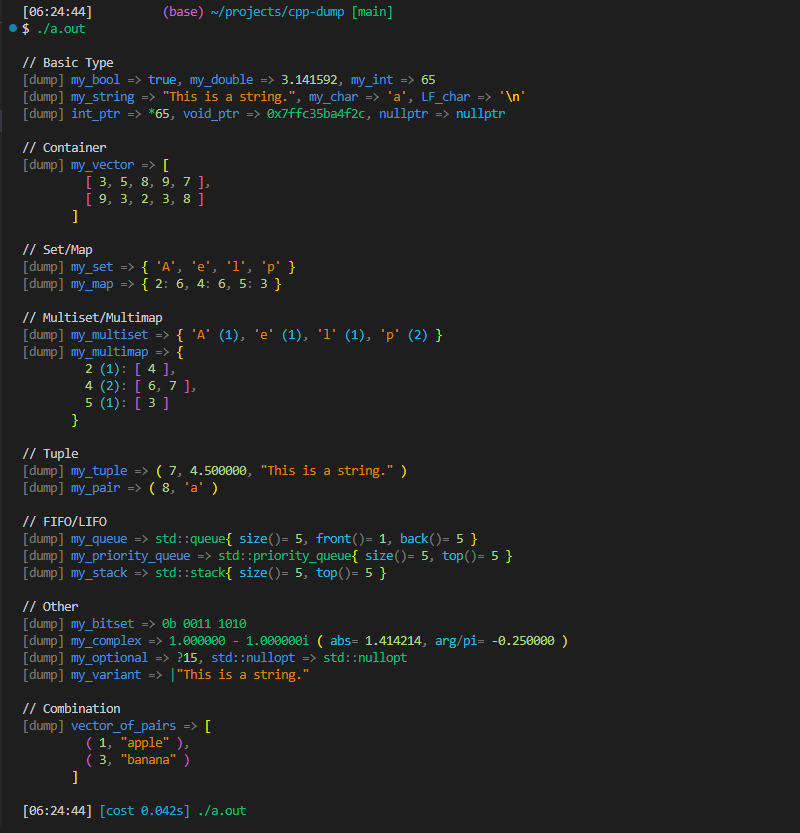
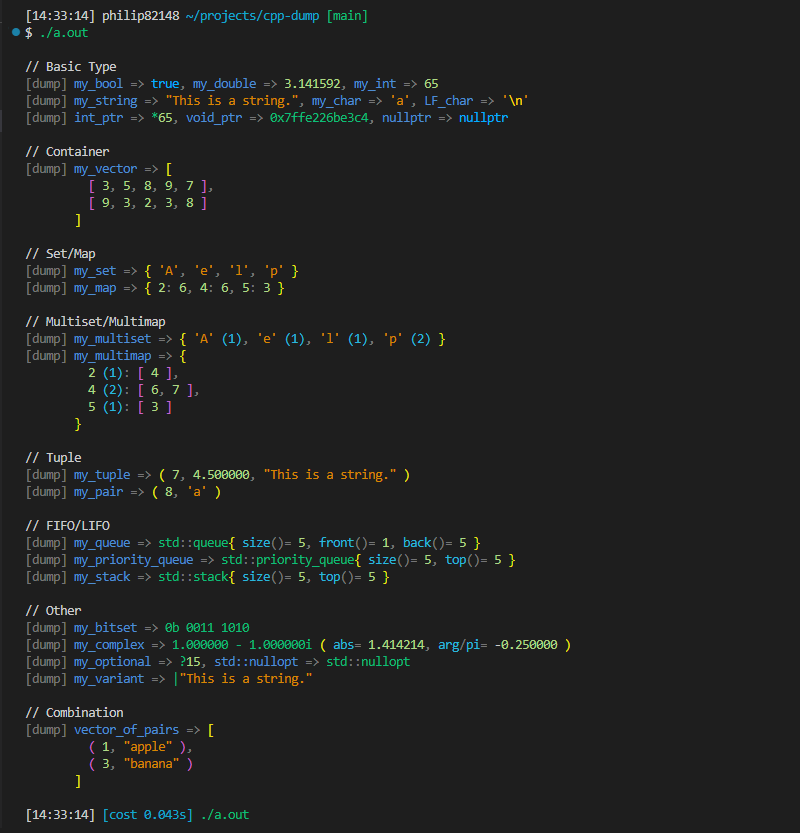
add customizable-colors-light-plus image

diff --git a/README.md b/README.md
@@ -216,6 +216,10 @@ CPP_DUMP_SET_OPTION(detailed_number_es, true);
 
 ![customizable-colors.png](./readme/customizable-colors.png)
 
+[For Light Theme](https://gist.github.com/philip82148/9684321c37ba6ae18fb101b586a7bd00), the output will be like this.
+
+![customizable-colors-light-plus](./readme/customizable-colors-light-plus.png)
+
 To turn off output coloring, use the following code.  
 [See Full Example Code](./readme/no-es.cpp)
 
